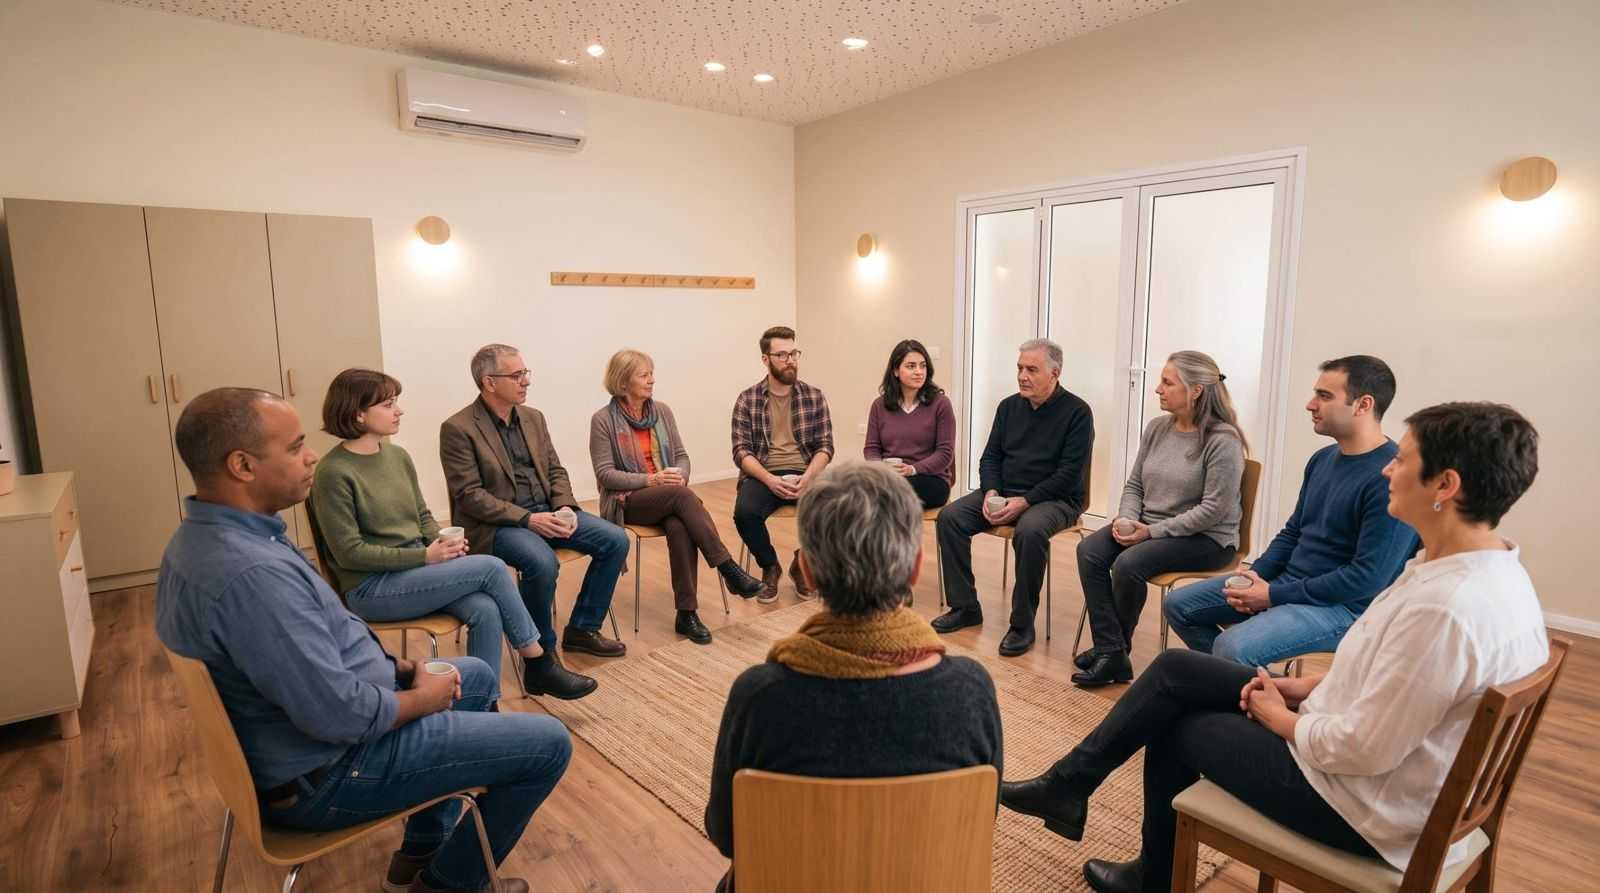
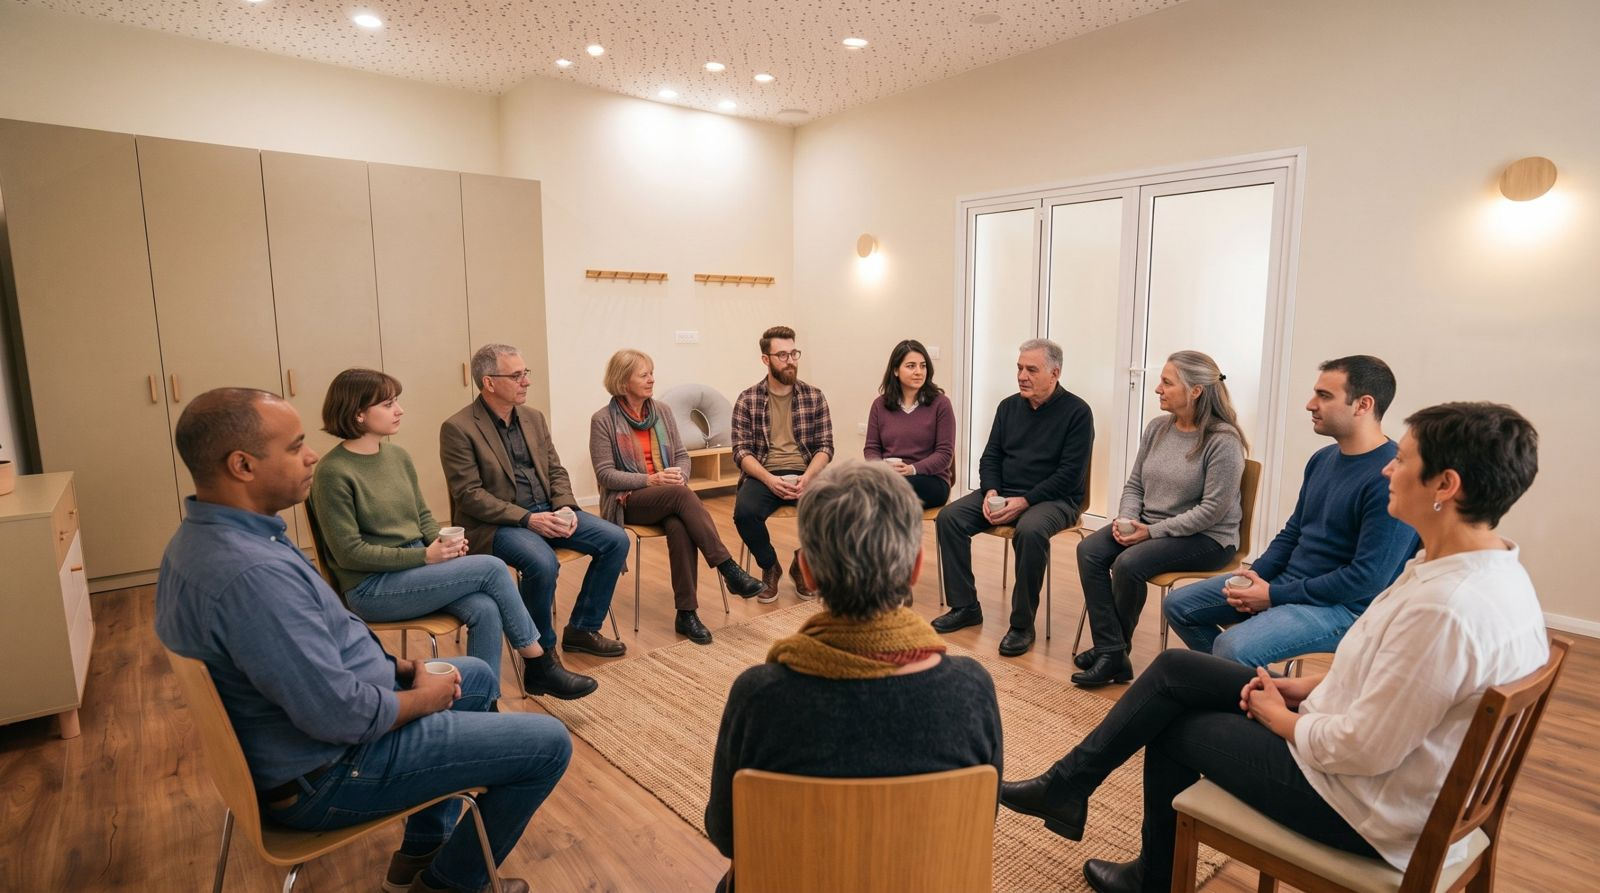
אזור הקבוצות: תמונות חדשות לקבוצת הילדים ולקבוצת המבוגרים
Claude-Session: https://claude.ai/code/session_01V3Nb3vbVLKUEUKRVbkNgJN

diff --git a/index.html b/index.html
@@ -331,6 +331,7 @@ input,textarea{cursor:text!important}
 .groups-photo.duo{display:grid;grid-template-columns:1fr 1fr;gap:16px;aspect-ratio:auto;background:none;box-shadow:none;border-radius:0;overflow:visible}
 .groups-photo.duo img{aspect-ratio:16/10;height:auto;border-radius:var(--r-lg);box-shadow:var(--shadow-md);object-position:50% 50%}
 @media(max-width:768px){.groups-photo.duo{grid-template-columns:1fr;gap:12px}}
+.groups-photo.duo img[src$="group-kids.jpg"]{object-position:50% 70%}
 </style>
 </head>
 <body>
@@ -359,7 +360,7 @@ input,textarea{cursor:text!important}
 
 <section class="reviews" id="reviews"><div class="section-inner"><div class="reveal" style="text-align:center;max-width:640px;margin:0 auto"><span class="section-label">מה אומרים עלינו</span><h2 class="section-title">מילים חמות מהמטופלים שלנו</h2><div class="divider" style="margin:24px auto"></div><p class="rating-line"><a href="https://www.google.com/maps/place/?q=place_id:ChIJk9So1Fm7HRURVuildJkW34g" target="_blank" rel="noopener">לביקורות שלנו בגוגל ←</a></p></div><div class="reviews-grid"><figure class="review reveal reveal-delay-1"><div class="stars" role="img" aria-label="חמישה כוכבים מתוך חמישה"><svg viewBox="0 0 24 24" aria-hidden="true"><path d="M11.525 2.295a.53.53 0 0 1 .95 0l2.31 4.679a2.123 2.123 0 0 0 1.595 1.16l5.166.756a.53.53 0 0 1 .294.904l-3.736 3.638a2.123 2.123 0 0 0-.611 1.878l.882 5.14a.53.53 0 0 1-.771.56l-4.618-2.428a2.122 2.122 0 0 0-1.973 0L6.396 21.01a.53.53 0 0 1-.77-.56l.881-5.139a2.122 2.122 0 0 0-.611-1.879L2.16 9.795a.53.53 0 0 1 .294-.906l5.165-.755a2.122 2.122 0 0 0 1.597-1.16z"/></svg><svg viewBox="0 0 24 24" aria-hidden="true"><path d="M11.525 2.295a.53.53 0 0 1 .95 0l2.31 4.679a2.123 2.123 0 0 0 1.595 1.16l5.166.756a.53.53 0 0 1 .294.904l-3.736 3.638a2.123 2.123 0 0 0-.611 1.878l.882 5.14a.53.53 0 0 1-.771.56l-4.618-2.428a2.122 2.122 0 0 0-1.973 0L6.396 21.01a.53.53 0 0 1-.77-.56l.881-5.139a2.122 2.122 0 0 0-.611-1.879L2.16 9.795a.53.53 0 0 1 .294-.906l5.165-.755a2.122 2.122 0 0 0 1.597-1.16z"/></svg><svg viewBox="0 0 24 24" aria-hidden="true"><path d="M11.525 2.295a.53.53 0 0 1 .95 0l2.31 4.679a2.123 2.123 0 0 0 1.595 1.16l5.166.756a.53.53 0 0 1 .294.904l-3.736 3.638a2.123 2.123 0 0 0-.611 1.878l.882 5.14a.53.53 0 0 1-.771.56l-4.618-2.428a2.122 2.122 0 0 0-1.973 0L6.396 21.01a.53.53 0 0 1-.77-.56l.881-5.139a2.122 2.122 0 0 0-.611-1.879L2.16 9.795a.53.53 0 0 1 .294-.906l5.165-.755a2.122 2.122 0 0 0 1.597-1.16z"/></svg><svg viewBox="0 0 24 24" aria-hidden="true"><path d="M11.525 2.295a.53.53 0 0 1 .95 0l2.31 4.679a2.123 2.123 0 0 0 1.595 1.16l5.166.756a.53.53 0 0 1 .294.904l-3.736 3.638a2.123 2.123 0 0 0-.611 1.878l.882 5.14a.53.53 0 0 1-.771.56l-4.618-2.428a2.122 2.122 0 0 0-1.973 0L6.396 21.01a.53.53 0 0 1-.77-.56l.881-5.139a2.122 2.122 0 0 0-.611-1.879L2.16 9.795a.53.53 0 0 1 .294-.906l5.165-.755a2.122 2.122 0 0 0 1.597-1.16z"/></svg><svg viewBox="0 0 24 24" aria-hidden="true"><path d="M11.525 2.295a.53.53 0 0 1 .95 0l2.31 4.679a2.123 2.123 0 0 0 1.595 1.16l5.166.756a.53.53 0 0 1 .294.904l-3.736 3.638a2.123 2.123 0 0 0-.611 1.878l.882 5.14a.53.53 0 0 1-.771.56l-4.618-2.428a2.122 2.122 0 0 0-1.973 0L6.396 21.01a.53.53 0 0 1-.77-.56l.881-5.139a2.122 2.122 0 0 0-.611-1.879L2.16 9.795a.53.53 0 0 1 .294-.906l5.165-.755a2.122 2.122 0 0 0 1.597-1.16z"/></svg></div><blockquote><p>מרכז מקצועי, רגיש ומלא באכפתיות. מהרגע הראשון מרגישים שמדובר באנשי מקצוע אמיתיים שרואים כל ילד וכל משפחה. היחס האישי, ההקשבה והאווירה החמה נותנים תחושת ביטחון ואמון.</p></blockquote><figcaption><b>בן ל.</b> · ביקורת בגוגל</figcaption></figure><figure class="review reveal reveal-delay-2"><div class="stars" role="img" aria-label="חמישה כוכבים מתוך חמישה"><svg viewBox="0 0 24 24" aria-hidden="true"><path d="M11.525 2.295a.53.53 0 0 1 .95 0l2.31 4.679a2.123 2.123 0 0 0 1.595 1.16l5.166.756a.53.53 0 0 1 .294.904l-3.736 3.638a2.123 2.123 0 0 0-.611 1.878l.882 5.14a.53.53 0 0 1-.771.56l-4.618-2.428a2.122 2.122 0 0 0-1.973 0L6.396 21.01a.53.53 0 0 1-.77-.56l.881-5.139a2.122 2.122 0 0 0-.611-1.879L2.16 9.795a.53.53 0 0 1 .294-.906l5.165-.755a2.122 2.122 0 0 0 1.597-1.16z"/></svg><svg viewBox="0 0 24 24" aria-hidden="true"><path d="M11.525 2.295a.53.53 0 0 1 .95 0l2.31 4.679a2.123 2.123 0 0 0 1.595 1.16l5.166.756a.53.53 0 0 1 .294.904l-3.736 3.638a2.123 2.123 0 0 0-.611 1.878l.882 5.14a.53.53 0 0 1-.771.56l-4.618-2.428a2.122 2.122 0 0 0-1.973 0L6.396 21.01a.53.53 0 0 1-.77-.56l.881-5.139a2.122 2.122 0 0 0-.611-1.879L2.16 9.795a.53.53 0 0 1 .294-.906l5.165-.755a2.122 2.122 0 0 0 1.597-1.16z"/></svg><svg viewBox="0 0 24 24" aria-hidden="true"><path d="M11.525 2.295a.53.53 0 0 1 .95 0l2.31 4.679a2.123 2.123 0 0 0 1.595 1.16l5.166.756a.53.53 0 0 1 .294.904l-3.736 3.638a2.123 2.123 0 0 0-.611 1.878l.882 5.14a.53.53 0 0 1-.771.56l-4.618-2.428a2.122 2.122 0 0 0-1.973 0L6.396 21.01a.53.53 0 0 1-.77-.56l.881-5.139a2.122 2.122 0 0 0-.611-1.879L2.16 9.795a.53.53 0 0 1 .294-.906l5.165-.755a2.122 2.122 0 0 0 1.597-1.16z"/></svg><svg viewBox="0 0 24 24" aria-hidden="true"><path d="M11.525 2.295a.53.53 0 0 1 .95 0l2.31 4.679a2.123 2.123 0 0 0 1.595 1.16l5.166.756a.53.53 0 0 1 .294.904l-3.736 3.638a2.123 2.123 0 0 0-.611 1.878l.882 5.14a.53.53 0 0 1-.771.56l-4.618-2.428a2.122 2.122 0 0 0-1.973 0L6.396 21.01a.53.53 0 0 1-.77-.56l.881-5.139a2.122 2.122 0 0 0-.611-1.879L2.16 9.795a.53.53 0 0 1 .294-.906l5.165-.755a2.122 2.122 0 0 0 1.597-1.16z"/></svg><svg viewBox="0 0 24 24" aria-hidden="true"><path d="M11.525 2.295a.53.53 0 0 1 .95 0l2.31 4.679a2.123 2.123 0 0 0 1.595 1.16l5.166.756a.53.53 0 0 1 .294.904l-3.736 3.638a2.123 2.123 0 0 0-.611 1.878l.882 5.14a.53.53 0 0 1-.771.56l-4.618-2.428a2.122 2.122 0 0 0-1.973 0L6.396 21.01a.53.53 0 0 1-.77-.56l.881-5.139a2.122 2.122 0 0 0-.611-1.879L2.16 9.795a.53.53 0 0 1 .294-.906l5.165-.755a2.122 2.122 0 0 0 1.597-1.16z"/></svg></div><blockquote><p>היחס האישי והליווי הצמוד נתנו לנו המון ביטחון. יעל הייתה קשובה, עדינה ומלאת סבלנות, תודה על הכל.</p></blockquote><figcaption><b>דנה ל.</b> · ביקורת בגוגל</figcaption></figure><figure class="review reveal reveal-delay-3"><blockquote><p>יעל, רציתי להגיד לך שאני ממש נהנית לראות את ג׳ אצלך. את משתפת אותו כל כך יפה, נותנת לו ביטחון, והדרך שבה את פונה אליו מחזקת אותו ומעצימה אותו, אפילו בדברים הכי קטנים. פשוט מרגשת.</p><p>תודה על הסבלנות, על תשומת הלב ועל כל המחמאות שאת מרעיפה עליו. הוא ממש אוהב לבוא אלייך, ונוצר ביניכם קשר כל כך יפה ומשמעותי, וזה משמח אותי מאוד.</p></blockquote><figcaption><b>מתוך מכתב תודה</b> · מאמא של מטופל</figcaption></figure></div></div></section>
 
-<section class="groups" id="groups"><div class="section-inner"><div class="reveal" style="text-align:center;max-width:640px;margin:0 auto"><span class="section-label">קבוצות</span><h2 class="section-title">מקום לצמוח בו יחד</h2><div class="divider" style="margin:24px auto"></div><p class="section-desc" style="margin:0 auto">קבוצות בהנחיית אנשי ונשות מקצוע, לילדים, לנוער ולמבוגרים, שבהן כל אחד ואחת יכולים להיות עצמם, להתנסות ולגלות יחד</p></div><figure class="groups-photo duo reveal"><img loading="lazy" decoding="async" src="img/group-kids.jpg" alt="קבוצת ילדים במעגל משחק עם מנחה"><img loading="lazy" decoding="async" src="img/group-adults2.jpg" alt="מעגל שיח של קבוצת מבוגרים"></figure><div class="groups-grid"><article class="group-card reveal reveal-delay-1"><span class="group-tag">המחזור השלישי נפתח</span><h3>הקבוצה החברתית</h3><div class="group-sub">מרחב להיות עצמך. מקום לצמוח בו יחד</div><p>קבוצת שווים שבה בטוח ונעים לשאול, לגלות ולהתנסות. דרך שיחה, פעילויות משותפות וסקרנות, חברי הקבוצה מגלים מה משותף להם עם אחרים, מה מיוחד בכל אחד ואחת, ואיך הופכים את היחד לנעים ובטוח.</p><ul class="group-meta"><li><b>שכבות גיל:</b> א׳–ג׳ · ד׳–ו׳ · חטיבת ביניים · תיכון</li><li><b>בהנחיית:</b> שתי קלינאיות תקשורת</li></ul><div class="group-actions"><a class="btn-solid" href="https://wa.me/972539312917?text=%D7%A9%D7%9C%D7%95%D7%9D%2C%20%D7%90%D7%A9%D7%9E%D7%97%20%D7%9C%D7%A4%D7%A8%D7%98%D7%99%D7%9D%20%D7%A2%D7%9C%20%D7%94%D7%A7%D7%91%D7%95%D7%A6%D7%94%20%D7%94%D7%97%D7%91%D7%A8%D7%AA%D7%99%D7%AA" target="_blank" rel="noopener"><svg class="ico" viewBox="0 0 24 24" fill="none" stroke="currentColor" stroke-width="1.75" stroke-linecap="round" stroke-linejoin="round" aria-hidden="true"><path d="M7.9 20A9 9 0 1 0 4 16.1L2 22Z"/></svg>לפרטים והרשמה</a><a class="card-link" href="#contact" data-topic="הקבוצה החברתית">או השאירו פרטים</a></div></article><article class="group-card reveal reveal-delay-2"><span class="group-tag is-new"><svg class="sprout" viewBox="0 0 24 24" fill="none" stroke="currentColor" stroke-width="2" stroke-linecap="round" stroke-linejoin="round" aria-hidden="true"><path d="M7 20h10"/><path d="M10 20c5.5-2.5.8-6.4 3-10"/><path d="M9.5 9.4c1.1.8 1.8 2.2 2.3 3.7-2 .4-3.5.4-4.8-.3-1.2-.6-2.3-1.9-3-4.2 2.8-.5 4.4 0 5.5.8z"/><path d="M14.1 6a7 7 0 0 0-1.1 4c1.9-.1 3.3-.6 4.3-1.4 1-1 1.6-2.3 1.7-4.6-2.7.1-4 1-4.9 2z"/></svg>חדש</span><h3>קבוצת נגרות חברתית</h3><div class="group-sub">בונים גשרים וקשרים</div><p>בונים יחד עם עץ, ובדרך בונים גם קשרים. עבודה משותפת בנגרות שמזמנת שיתוף פעולה, תקשורת ותכנון, וגאווה במה שיצרנו יחד.</p><ul class="group-meta"><li><b>גילאים:</b> 6–7</li><li><b>בהנחיית:</b> מרפאה בעיסוק וקלינאית תקשורת</li></ul><div class="group-actions"><a class="btn-solid" href="https://wa.me/972539312917?text=%D7%A9%D7%9C%D7%95%D7%9D%2C%20%D7%90%D7%A9%D7%9E%D7%97%20%D7%9C%D7%A4%D7%A8%D7%98%D7%99%D7%9D%20%D7%A2%D7%9C%20%D7%A7%D7%91%D7%95%D7%A6%D7%AA%20%D7%94%D7%A0%D7%92%D7%A8%D7%95%D7%AA%20%D7%94%D7%97%D7%91%D7%A8%D7%AA%D7%99%D7%AA" target="_blank" rel="noopener"><svg class="ico" viewBox="0 0 24 24" fill="none" stroke="currentColor" stroke-width="1.75" stroke-linecap="round" stroke-linejoin="round" aria-hidden="true"><path d="M7.9 20A9 9 0 1 0 4 16.1L2 22Z"/></svg>לפרטים והרשמה</a><a class="card-link" href="#contact" data-topic="קבוצת הנגרות החברתית">או השאירו פרטים</a></div></article><article class="group-card reveal reveal-delay-3"><span class="group-tag is-new"><svg class="sprout" viewBox="0 0 24 24" fill="none" stroke="currentColor" stroke-width="2" stroke-linecap="round" stroke-linejoin="round" aria-hidden="true"><path d="M7 20h10"/><path d="M10 20c5.5-2.5.8-6.4 3-10"/><path d="M9.5 9.4c1.1.8 1.8 2.2 2.3 3.7-2 .4-3.5.4-4.8-.3-1.2-.6-2.3-1.9-3-4.2 2.8-.5 4.4 0 5.5.8z"/><path d="M14.1 6a7 7 0 0 0-1.1 4c1.9-.1 3.3-.6 4.3-1.4 1-1 1.6-2.3 1.7-4.6-2.7.1-4 1-4.9 2z"/></svg>חדש</span><h3>קבוצה להתמודדות עם חרדה חברתית</h3><div class="group-sub">צעדים קטנים, בקצב שלכם</div><p>למבוגרים שמצבים חברתיים מעוררים אצלם פחד, מבוכה או רצון להתחמק, בעבודה, בלימודים או במפגש עם אנשים חדשים. בקבוצה נכיר את החרדה, נתרגל יחד ובהדרגה צעדים קטנים במצבים חברתיים, ונמצא כלים שעוזרים להרגיש בטוחים יותר, לצד אנשים שמבינים בדיוק על מה מדובר.</p><ul class="group-meta"><li><b>למי:</b> מבוגרים</li><li><b>בהנחיית:</b> מטפלת רגשית וקלינאית תקשורת</li></ul><div class="group-actions"><a class="btn-solid" href="https://wa.me/972539312917?text=%D7%A9%D7%9C%D7%95%D7%9D%2C%20%D7%90%D7%A9%D7%9E%D7%97%20%D7%9C%D7%A4%D7%A8%D7%98%D7%99%D7%9D%20%D7%A2%D7%9C%20%D7%94%D7%A7%D7%91%D7%95%D7%A6%D7%94%20%D7%9C%D7%94%D7%AA%D7%9E%D7%95%D7%93%D7%93%D7%95%D7%AA%20%D7%A2%D7%9D%20%D7%97%D7%A8%D7%93%D7%94%20%D7%97%D7%91%D7%A8%D7%AA%D7%99%D7%AA" target="_blank" rel="noopener"><svg class="ico" viewBox="0 0 24 24" fill="none" stroke="currentColor" stroke-width="1.75" stroke-linecap="round" stroke-linejoin="round" aria-hidden="true"><path d="M7.9 20A9 9 0 1 0 4 16.1L2 22Z"/></svg>לפרטים והרשמה</a><a class="card-link" href="#contact" data-topic="הקבוצה להתמודדות עם חרדה חברתית">או השאירו פרטים</a></div></article></div></div></section>
+<section class="groups" id="groups"><div class="section-inner"><div class="reveal" style="text-align:center;max-width:640px;margin:0 auto"><span class="section-label">קבוצות</span><h2 class="section-title">מקום לצמוח בו יחד</h2><div class="divider" style="margin:24px auto"></div><p class="section-desc" style="margin:0 auto">קבוצות בהנחיית אנשי ונשות מקצוע, לילדים, לנוער ולמבוגרים, שבהן כל אחד ואחת יכולים להיות עצמם, להתנסות ולגלות יחד</p></div><figure class="groups-photo duo reveal"><img loading="lazy" decoding="async" src="img/group-kids.jpg" alt="קבוצת ילדים יושבת במעגל על השטיח עם מנחה"><img loading="lazy" decoding="async" src="img/group-adults2.jpg" alt="מעגל שיח של קבוצת מבוגרים"></figure><div class="groups-grid"><article class="group-card reveal reveal-delay-1"><span class="group-tag">המחזור השלישי נפתח</span><h3>הקבוצה החברתית</h3><div class="group-sub">מרחב להיות עצמך. מקום לצמוח בו יחד</div><p>קבוצת שווים שבה בטוח ונעים לשאול, לגלות ולהתנסות. דרך שיחה, פעילויות משותפות וסקרנות, חברי הקבוצה מגלים מה משותף להם עם אחרים, מה מיוחד בכל אחד ואחת, ואיך הופכים את היחד לנעים ובטוח.</p><ul class="group-meta"><li><b>שכבות גיל:</b> א׳–ג׳ · ד׳–ו׳ · חטיבת ביניים · תיכון</li><li><b>בהנחיית:</b> שתי קלינאיות תקשורת</li></ul><div class="group-actions"><a class="btn-solid" href="https://wa.me/972539312917?text=%D7%A9%D7%9C%D7%95%D7%9D%2C%20%D7%90%D7%A9%D7%9E%D7%97%20%D7%9C%D7%A4%D7%A8%D7%98%D7%99%D7%9D%20%D7%A2%D7%9C%20%D7%94%D7%A7%D7%91%D7%95%D7%A6%D7%94%20%D7%94%D7%97%D7%91%D7%A8%D7%AA%D7%99%D7%AA" target="_blank" rel="noopener"><svg class="ico" viewBox="0 0 24 24" fill="none" stroke="currentColor" stroke-width="1.75" stroke-linecap="round" stroke-linejoin="round" aria-hidden="true"><path d="M7.9 20A9 9 0 1 0 4 16.1L2 22Z"/></svg>לפרטים והרשמה</a><a class="card-link" href="#contact" data-topic="הקבוצה החברתית">או השאירו פרטים</a></div></article><article class="group-card reveal reveal-delay-2"><span class="group-tag is-new"><svg class="sprout" viewBox="0 0 24 24" fill="none" stroke="currentColor" stroke-width="2" stroke-linecap="round" stroke-linejoin="round" aria-hidden="true"><path d="M7 20h10"/><path d="M10 20c5.5-2.5.8-6.4 3-10"/><path d="M9.5 9.4c1.1.8 1.8 2.2 2.3 3.7-2 .4-3.5.4-4.8-.3-1.2-.6-2.3-1.9-3-4.2 2.8-.5 4.4 0 5.5.8z"/><path d="M14.1 6a7 7 0 0 0-1.1 4c1.9-.1 3.3-.6 4.3-1.4 1-1 1.6-2.3 1.7-4.6-2.7.1-4 1-4.9 2z"/></svg>חדש</span><h3>קבוצת נגרות חברתית</h3><div class="group-sub">בונים גשרים וקשרים</div><p>בונים יחד עם עץ, ובדרך בונים גם קשרים. עבודה משותפת בנגרות שמזמנת שיתוף פעולה, תקשורת ותכנון, וגאווה במה שיצרנו יחד.</p><ul class="group-meta"><li><b>גילאים:</b> 6–7</li><li><b>בהנחיית:</b> מרפאה בעיסוק וקלינאית תקשורת</li></ul><div class="group-actions"><a class="btn-solid" href="https://wa.me/972539312917?text=%D7%A9%D7%9C%D7%95%D7%9D%2C%20%D7%90%D7%A9%D7%9E%D7%97%20%D7%9C%D7%A4%D7%A8%D7%98%D7%99%D7%9D%20%D7%A2%D7%9C%20%D7%A7%D7%91%D7%95%D7%A6%D7%AA%20%D7%94%D7%A0%D7%92%D7%A8%D7%95%D7%AA%20%D7%94%D7%97%D7%91%D7%A8%D7%AA%D7%99%D7%AA" target="_blank" rel="noopener"><svg class="ico" viewBox="0 0 24 24" fill="none" stroke="currentColor" stroke-width="1.75" stroke-linecap="round" stroke-linejoin="round" aria-hidden="true"><path d="M7.9 20A9 9 0 1 0 4 16.1L2 22Z"/></svg>לפרטים והרשמה</a><a class="card-link" href="#contact" data-topic="קבוצת הנגרות החברתית">או השאירו פרטים</a></div></article><article class="group-card reveal reveal-delay-3"><span class="group-tag is-new"><svg class="sprout" viewBox="0 0 24 24" fill="none" stroke="currentColor" stroke-width="2" stroke-linecap="round" stroke-linejoin="round" aria-hidden="true"><path d="M7 20h10"/><path d="M10 20c5.5-2.5.8-6.4 3-10"/><path d="M9.5 9.4c1.1.8 1.8 2.2 2.3 3.7-2 .4-3.5.4-4.8-.3-1.2-.6-2.3-1.9-3-4.2 2.8-.5 4.4 0 5.5.8z"/><path d="M14.1 6a7 7 0 0 0-1.1 4c1.9-.1 3.3-.6 4.3-1.4 1-1 1.6-2.3 1.7-4.6-2.7.1-4 1-4.9 2z"/></svg>חדש</span><h3>קבוצה להתמודדות עם חרדה חברתית</h3><div class="group-sub">צעדים קטנים, בקצב שלכם</div><p>למבוגרים שמצבים חברתיים מעוררים אצלם פחד, מבוכה או רצון להתחמק, בעבודה, בלימודים או במפגש עם אנשים חדשים. בקבוצה נכיר את החרדה, נתרגל יחד ובהדרגה צעדים קטנים במצבים חברתיים, ונמצא כלים שעוזרים להרגיש בטוחים יותר, לצד אנשים שמבינים בדיוק על מה מדובר.</p><ul class="group-meta"><li><b>למי:</b> מבוגרים</li><li><b>בהנחיית:</b> מטפלת רגשית וקלינאית תקשורת</li></ul><div class="group-actions"><a class="btn-solid" href="https://wa.me/972539312917?text=%D7%A9%D7%9C%D7%95%D7%9D%2C%20%D7%90%D7%A9%D7%9E%D7%97%20%D7%9C%D7%A4%D7%A8%D7%98%D7%99%D7%9D%20%D7%A2%D7%9C%20%D7%94%D7%A7%D7%91%D7%95%D7%A6%D7%94%20%D7%9C%D7%94%D7%AA%D7%9E%D7%95%D7%93%D7%93%D7%95%D7%AA%20%D7%A2%D7%9D%20%D7%97%D7%A8%D7%93%D7%94%20%D7%97%D7%91%D7%A8%D7%AA%D7%99%D7%AA" target="_blank" rel="noopener"><svg class="ico" viewBox="0 0 24 24" fill="none" stroke="currentColor" stroke-width="1.75" stroke-linecap="round" stroke-linejoin="round" aria-hidden="true"><path d="M7.9 20A9 9 0 1 0 4 16.1L2 22Z"/></svg>לפרטים והרשמה</a><a class="card-link" href="#contact" data-topic="הקבוצה להתמודדות עם חרדה חברתית">או השאירו פרטים</a></div></article></div></div></section>
 
 <section class="updates" id="updates"><div class="updates-inner reveal"><div><span class="section-label">סדנאות והרצאות</span><h2>רוצים לדעת ראשונים?</h2><p>סדנאות והרצאות לצמיחה אישית, להורים ולמשפחות נפתחות במהלך השנה. שלחו לנו הודעה, ונעדכן אתכם כשנפתחת הרשמה.</p></div><a class="btn-solid" href="https://wa.me/972539312917?text=%D7%A9%D7%9C%D7%95%D7%9D%2C%20%D7%90%D7%A9%D7%9E%D7%97%20%D7%9C%D7%A7%D7%91%D7%9C%20%D7%A2%D7%93%D7%9B%D7%95%D7%A0%D7%99%D7%9D%20%D7%A2%D7%9C%20%D7%A1%D7%93%D7%A0%D7%90%D7%95%D7%AA%20%D7%95%D7%94%D7%A8%D7%A6%D7%90%D7%95%D7%AA%20%D7%91%D7%A1%D7%A7%D7%95%D7%99%D7%94" target="_blank" rel="noopener"><svg class="ico" viewBox="0 0 24 24" fill="none" stroke="currentColor" stroke-width="1.75" stroke-linecap="round" stroke-linejoin="round" aria-hidden="true"><path d="M7.9 20A9 9 0 1 0 4 16.1L2 22Z"/></svg>עדכנו אותי</a></div></section>
 
